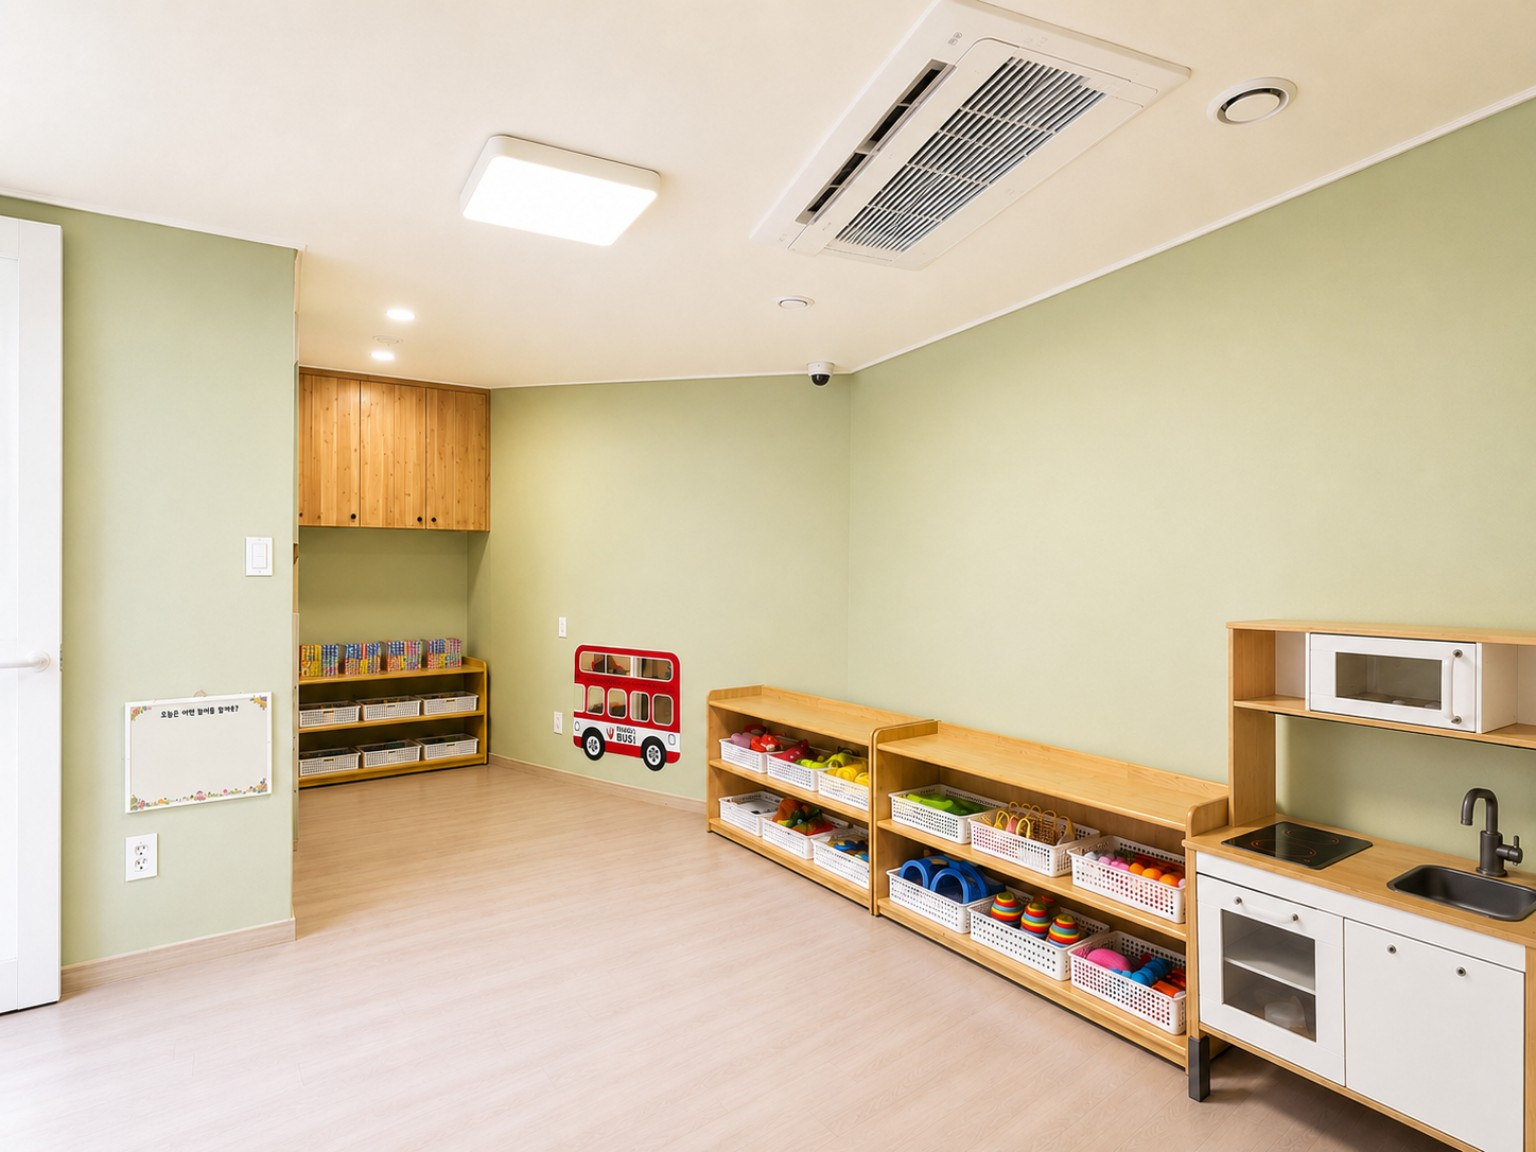
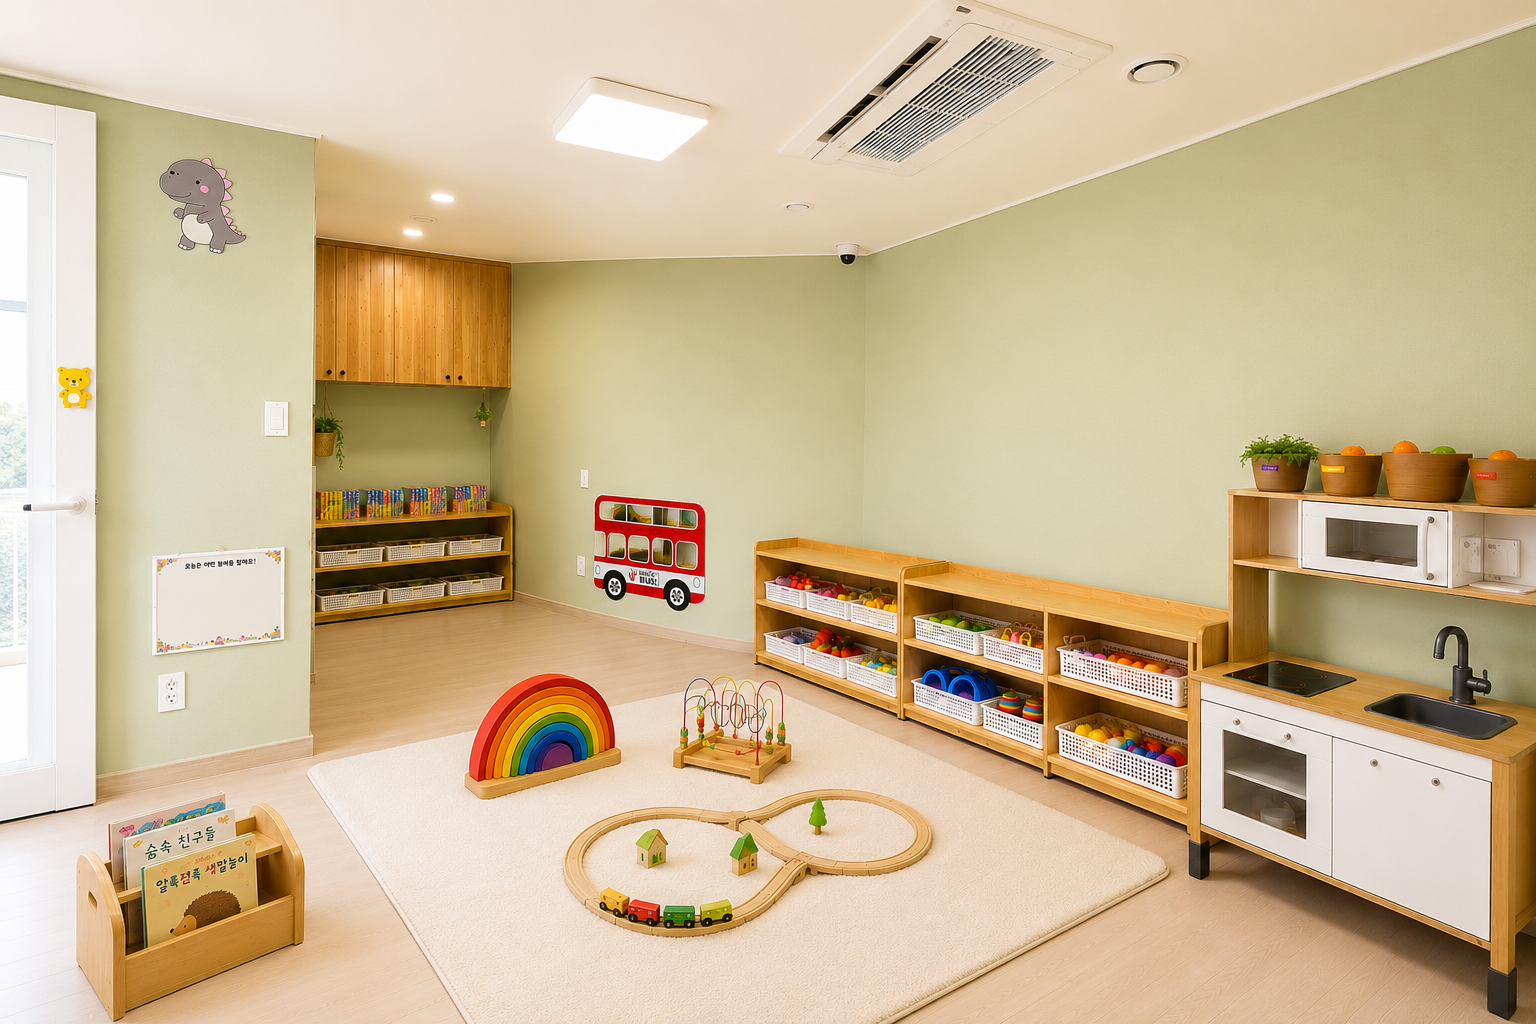
갤러리 교실1~3 사진 교체 및 레이아웃 통일, 연령카드 복원, 전화번호 카카오 색상 통일

diff --git a/index.html b/index.html
@@ -403,13 +403,11 @@ section { padding: 120px 0; position: relative; }
 .gallery-grid .tile:hover img { transform: scale(1.05); }
 .gallery-grid .tile img.pos-right { object-position: right; }
 .gallery-grid .tile img.contain { object-fit: contain; }
-.gallery-grid .tile.ratio32 { aspect-ratio: 3 / 2; }
-@media (max-width: 760px) {
+@media (max-width: 900px) {
   .gallery-grid { grid-template-columns: repeat(2, 1fr); }
 }
-@media (max-width: 460px) {
+@media (max-width: 560px) {
   .gallery-grid { grid-template-columns: 1fr; }
-  .gallery-grid .tile { aspect-ratio: 4 / 3; }
 }
 
 /* ============ location ============ */
@@ -443,20 +441,13 @@ section { padding: 120px 0; position: relative; }
 .admission .btn-ghost-white { color: #fff; border-color: rgba(255,255,255,0.55); }
 .admission .btn-ghost-white:hover { background: rgba(255,255,255,0.18); border-color: #fff; }
 .admission-btns { display: flex; gap: 12px; flex-wrap: wrap; }
-.admission-ages { display: grid; grid-template-columns: repeat(3, 1fr); gap: 16px; margin-top: 56px; padding-top: 40px; border-top: 1px solid rgba(255,255,255,0.25); }
-.admission-age {
-  display: flex; flex-direction: column; align-items: center; justify-content: center;
-  text-align: center; gap: 6px; padding: 22px 16px; border-radius: 18px;
-  background: rgba(255,255,255,0.18); color: #fff; box-sizing: border-box;
-}
-.admission-age strong { font-family: var(--font-display); font-weight: 700; font-size: 15px; line-height: 1.4; }
-.admission-age span { font-size: 13px; line-height: 1.5; color: rgba(255,255,255,0.85); }
+.admission-ages { display: flex; gap: 14px; flex-wrap: wrap; margin-top: 56px; padding-top: 40px; border-top: 1px solid rgba(255,255,255,0.25); }
+.admission-age { padding: 14px 22px; border-radius: 999px; background: rgba(255,255,255,0.18); font-size: 13.5px; display: flex; gap: 10px; align-items: center; color: #fff; }
+.admission-age strong { font-family: var(--font-display); font-weight: 700; color: #fff; }
 @media (max-width: 760px) {
   .admission { padding: 48px 28px; margin: 0 16px; }
   .admission-btns { flex-direction: column; }
   .admission-btns .btn { justify-content: center; }
-  .admission-ages { grid-template-columns: 1fr; }
-  .admission-age { min-height: 84px; }
 }
 
 /* ============ footer ============ */
@@ -742,9 +733,9 @@ footer { padding: 64px 0 40px; border-top: 1px solid var(--line); margin-top: 80
       <div class="tile c"><img src="images/시설_북카페.png" alt="북카페" class="contain"></div>
       <div class="tile g"><img src="images/시설_세스코.png" alt="세스코 정기 방역 점검" class="contain"></div>
       <div class="tile h"><img src="images/시설_방역.png" alt="장난감 소독 및 방역 소독" class="contain"></div>
-      <div class="tile i ratio32"><img src="images/교실1.jpg" alt="교실1"></div>
-      <div class="tile j ratio32"><img src="images/교실2.png" alt="교실2"></div>
-      <div class="tile d ratio32"><img src="images/꿈별반.png" alt="교실3"></div>
+      <div class="tile i"><img src="images/교실1.jpg" alt="교실1"></div>
+      <div class="tile j"><img src="images/교실2.png" alt="교실2"></div>
+      <div class="tile d"><img src="images/꿈별반.png" alt="교실3"></div>
       <div class="tile b"><img src="images/시설_복도.png" alt="복도"></div>
       <div class="tile e"><img src="images/시설_주방.png" alt="주방"></div>
       <div class="tile f"><img src="images/시설_욕실.png" alt="화장실"></div>
@@ -784,7 +775,7 @@ footer { padding: 64px 0 40px; border-top: 1px solid var(--line); margin-top: 80
           <div class="info-row"><strong>보육대상</strong><span class="val">만 0세 ~ 만 2세</span></div>
         </div>
         <div class="location-btns">
-          <a href="tel:055-912-7710" class="btn btn-ghost">
+          <a href="tel:055-912-7710" class="btn btn-kakao">
             <svg viewBox="0 0 24 24" fill="none" stroke="currentColor" stroke-width="1.8" stroke-linecap="round" stroke-linejoin="round"><path d="M22 16.92v3a2 2 0 0 1-2.18 2 19.79 19.79 0 0 1-8.63-3.07 19.5 19.5 0 0 1-6-6 19.79 19.79 0 0 1-3.07-8.67A2 2 0 0 1 4.11 2h3a2 2 0 0 1 2 1.72c.12.9.34 1.78.65 2.62a2 2 0 0 1-.45 2.11L8.09 9.91a16 16 0 0 0 6 6l1.46-1.21a2 2 0 0 1 2.11-.45c.84.31 1.72.53 2.62.65A2 2 0 0 1 22 16.92z"/></svg>
             055-912-7710
           </a>
